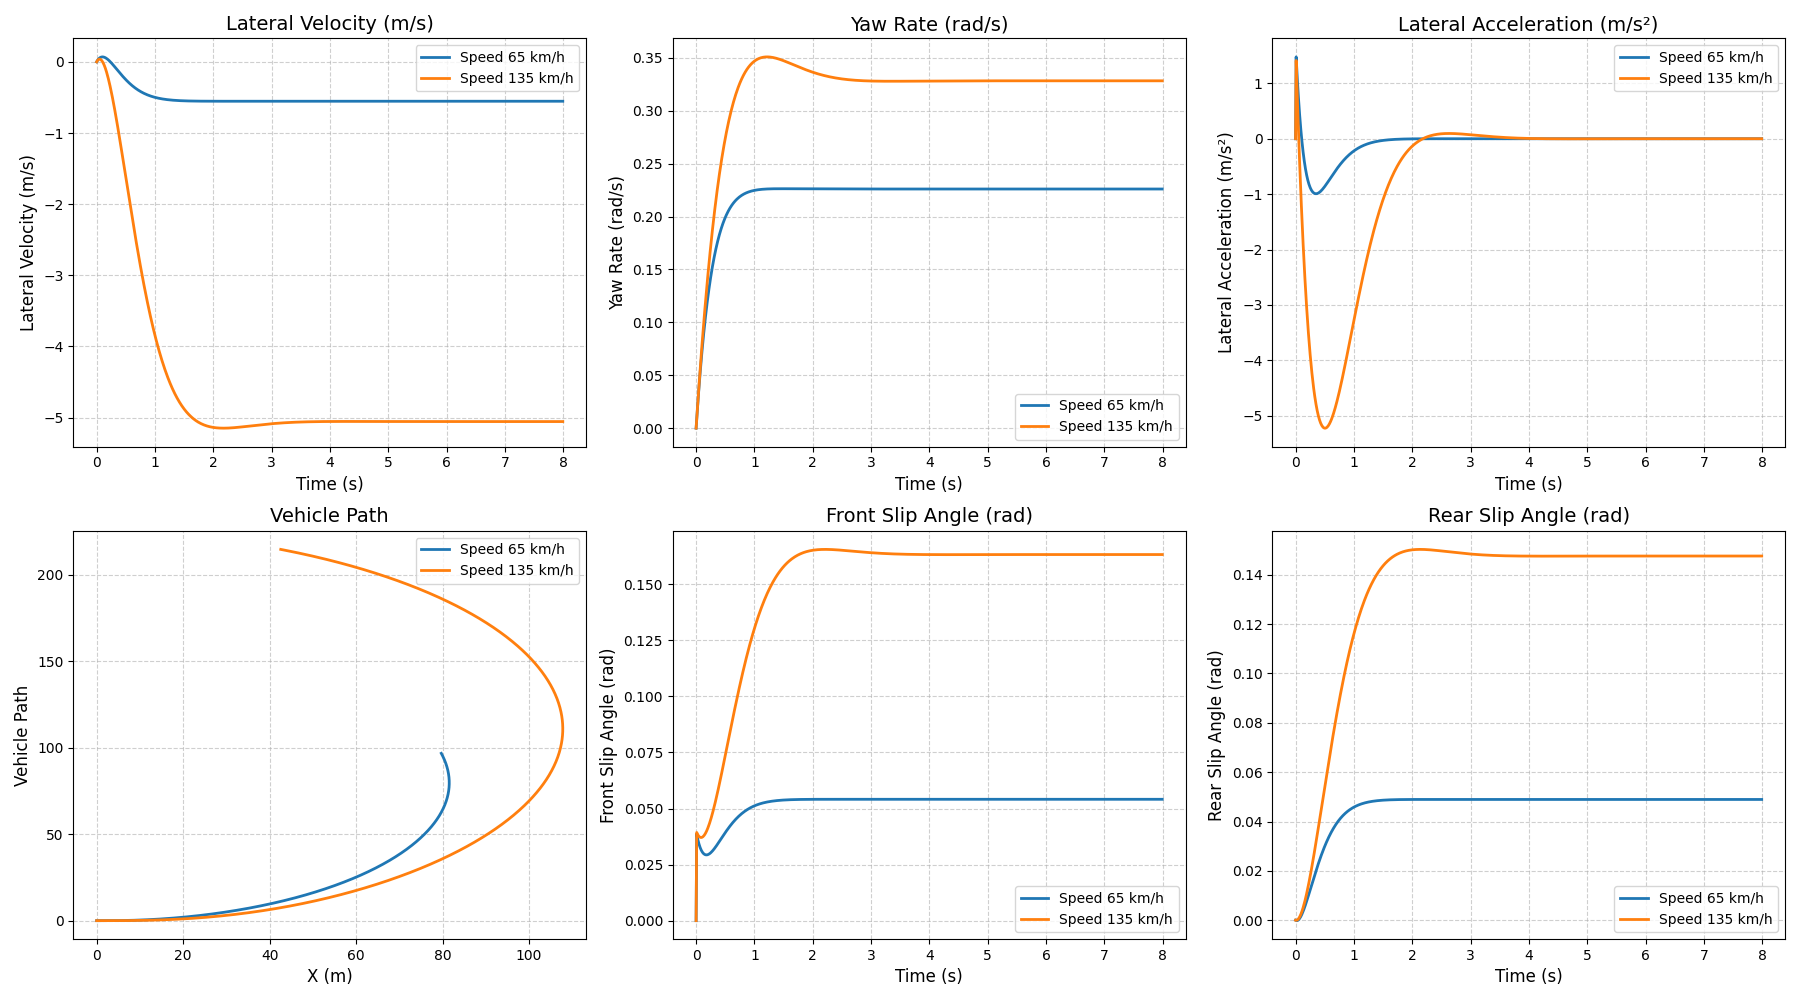
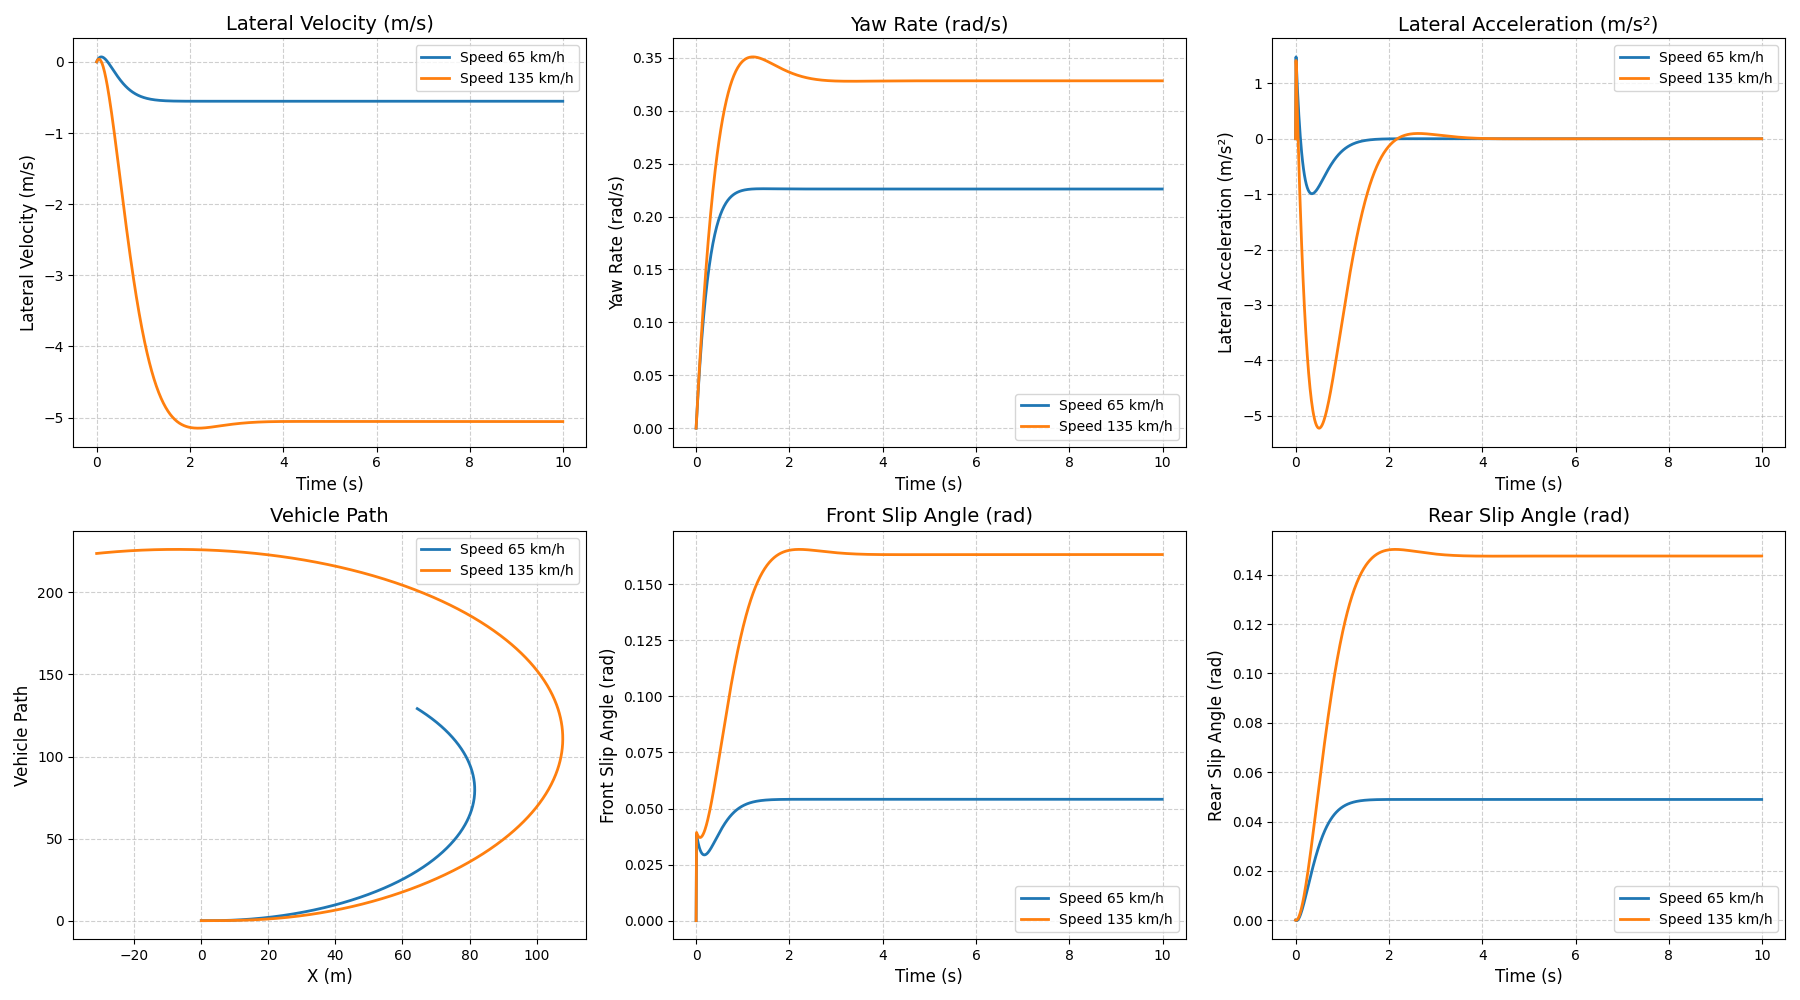
first question done

diff --git a/assignment1/q2_1.py b/assignment1/q2_1.py
@@ -3,7 +3,7 @@ import scipy.signal as signal
 import matplotlib.pyplot as plt
 
 class VehicleModel:
-    def __init__(self, mass, a, b, I_z, C_af, C_ar, delta, dt=0.01, sim_time=8):
+    def __init__(self, mass, a, b, I_z, C_af, C_ar, delta, dt=0.01, sim_time=10):
         self.m = mass
         self.a = a
         self.b = b
